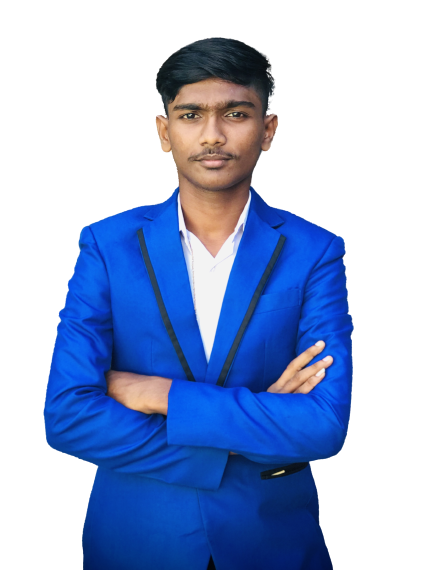
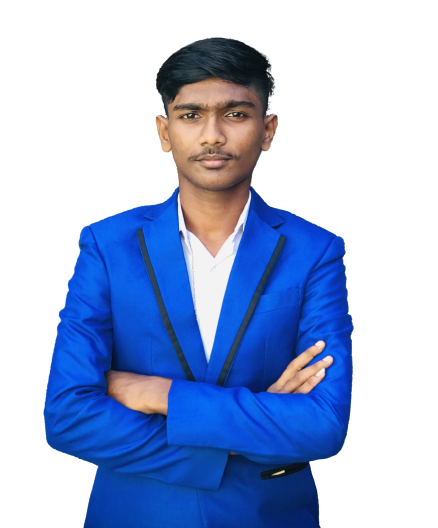
portfolio issues fixed

Changed region(s): [[0.089, 0.0606, 0.8311, 1.0]]

diff --git a/style.css b/style.css
@@ -62,13 +62,6 @@ body{
         min-width: 120vw;
     } */
 }
-@media screen and (max-width: 370px) {
-
-    body{
-        min-width: 120vw;
-    }
-}
-
 /*added*/
 .about_content {
     max-width: 100vw;    
@@ -819,6 +812,11 @@ header .container{
     color: var(--main-color);
 }
 
+.resume_tabs ul li a:focus-visible{
+    outline: 2px solid var(--main-color);
+    outline-offset: 4px;
+}
+
 .resume_tabs ul li a.current{
     color: var(--main-color);
     margin-left: 20px;
@@ -853,6 +851,7 @@ header .container{
     margin-bottom: 15px;
     padding: 40px 30px;
     display: flex;
+    gap: 20px;
     position: relative;
     border-radius: 10px;
     transition: .3s;
@@ -860,8 +859,9 @@ header .container{
 
 .resume_wrap-icon{
     background-color: var(--main-color);
-    width: 150px;
+    width: 50px;
     height: 50px;
+    flex: 0 0 50px;
     border-radius: 50%;
     display: flex;
     align-items: center;
@@ -874,7 +874,8 @@ header .container{
 }
 
 .resume_wrap-content{
-    width: calc(100%-100px);
+    width: calc(100% - 70px);
+    min-width: 0;
     padding: 0 0 10px 10px;
 }
 
@@ -1049,8 +1050,8 @@ header .container{
 
 .portfolio_wrap-container{
     display: grid;
-    gap: 2rem;
-    grid-template-columns: repeat(3,1fr);
+    gap: 2rem 1.5rem;
+    grid-template-columns: repeat(3, minmax(0, 1fr));
     position: relative;
 }
 
@@ -1062,12 +1063,16 @@ header .container{
     position: relative;
     overflow: hidden;
     z-index: 1;
+    width: 100%;
+    aspect-ratio: 7 / 5;
+    border-radius: 10px;
 }
 
 .portfolio_wrap img{
     border-radius: 10px;
-    width: 350px;
-    height: 250px;
+    width: 100%;
+    height: 100%;
+    object-fit: cover;
 }
 
 
@@ -1076,8 +1081,8 @@ header .container{
     position: absolute;
     top: 0;
     left: 0;
-    width: 350px;
-    height: 250px;
+    width: 100%;
+    height: 100%;
     display: flex;
     align-items: center;
     justify-content: center;
@@ -1132,28 +1137,13 @@ header .container{
         grid-template-columns: repeat(2,1fr);
         text-align: center;
     }
-
-    .portfolio_wrap img{
-        
-        width: 300px;
-        height: 200px;
-    }
-
-    .portfolio_info{
-        
-        width: 330px;
-        height: 200px;
-    }
-
-    
 }
 
 @media screen and (max-width: 700px) {
 
     .portfolio_filters {
-        width: 100vw;
-        max-width: 100vw;
-        overflow-x: auto;
+        width: 100%;
+        max-width: 100%;
         justify-content: flex-start;
         padding-left: 0;
         margin-left: 0;
@@ -1164,24 +1154,10 @@ header .container{
 
     .portfolio_wrap-container{
         grid-template-columns: 1fr;
+
         text-align: center;
-    }
-
-    
-
-    .portfolio_wrap img{
-        
-        width: 300px;
-        height: 200px;
-    }
-
-    .portfolio_info{
-        
-        
-        width: 330px;
-        height: 200px;
-        
-        
+        max-width: 420px;
+        margin: 0 auto;
     }
 
     .portfolio_info h4{
@@ -1197,6 +1173,22 @@ header .container{
     
 }
 
+@media screen and (max-width: 520px) {
+    .portfolio_filters {
+        justify-content: center;
+        align-content: center;
+        flex-wrap: wrap;
+        gap: 8px;
+        margin-bottom: 45px;
+        overflow: visible;
+    }
+
+    .portfolio_filters li {
+        flex: 0 0 auto;
+        font-size: 14px;
+        padding: 7px 13px;
+    }
+}
 
 
 

diff --git a/index.html b/index.html
@@ -1257,7 +1257,7 @@
     <script src="https://cdn.jsdelivr.net/npm/typed.js@2.0.12"></script>  
     <script>
         var typed = new Typed(".auto-input" , {
-            strings: ["Software Developer" , "Web & Mobile Developer" , "Content Creator" , "AI/ML Developer" , "Logo Designer"] ,
+            strings: ["Software Developer" , "Web & Mobile Developer" , "Content Creator" , "AI/ML Developer"] ,
             typeSpeed: 100,
             backSpeed: 40,
             loop: true,
@@ -1271,25 +1271,22 @@
         const resume = document.querySelector('.page_heading');
 
         function resumeActive(){
-            const scrollY = window.pageYOffset;
+            const scrollY = window.pageYOffset + 160;
+            let currentPage = pages[0];
 
             pages.forEach(page => {
-                const sectionHeight = page.offsetHeight;
-                const sectionTop = page.offsetTop - 120;
-
-                let sectionId = page.getAttribute('id');
-
-                if(scrollY > sectionTop && scrollY <= sectionTop + sectionHeight){
-                    document.querySelector('.resume_tabs a[href *=' + sectionId +']').classList.add('current');
-                } else {
-                    document.querySelector('.resume_tabs a[href *=' + sectionId +']').classList.remove('current');
+                if (scrollY >= page.offsetTop) {
+                    currentPage = page;
                 }
+            });
 
-
-            })
+            document.querySelectorAll('.resume_tabs a').forEach(link => {
+                link.classList.toggle('current', link.getAttribute('href') === `#${currentPage.id}`);
+            });
         }
 
         window.addEventListener('scroll', resumeActive);
+        window.addEventListener('load', resumeActive);
     </script>
 
     <!-----------------mixitup---------------------------->

diff --git a/main.js b/main.js
@@ -1,6 +1,6 @@
 const iconToggle = document.querySelector('.toggle_icon');
 const navbarMenu = document.querySelector('.menu');
-const menuLinks = document.querySelector('.menu_link');
+const menuLinks = document.querySelectorAll('.menu_link');
 const iconClose = document.querySelector('.close_icon');
 
 iconToggle.addEventListener('click', () => {
@@ -44,18 +44,23 @@ function activeLink() {
         const sectionHeight = section.offsetHeight;
         const sectionTop = section.offsetTop - 80;
 
-        let sectionId = section.getAttribute('id');
+        const sectionId = section.getAttribute('id');
+        const menuLink = document.querySelector(`.menu a[href="#${sectionId}"]`);
 
-        if(yOffset > sectionTop && yOffset <= sectionTop + sectionHeight){
-            document.querySelector('.menu a[href *=' + sectionId +']').classList.add('active-link');
+        if (!menuLink) {
+            return;
+        }
+
+        if (yOffset >= sectionTop && yOffset < sectionTop + sectionHeight) {
+            menuLink.classList.add('active-link');
         } else {
-            document.querySelector('.menu a[href *=' + sectionId +']').classList.remove('active-link');
+            menuLink.classList.remove('active-link');
         }
     })
 }
 
-
-window.addEventListener("scroll" , activeLink());
+window.addEventListener('scroll', activeLink);
+window.addEventListener('load', activeLink);
 
 
 
